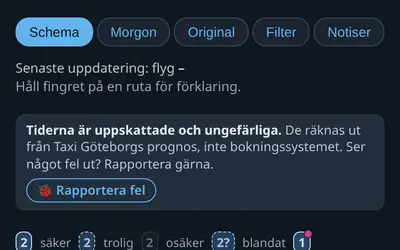
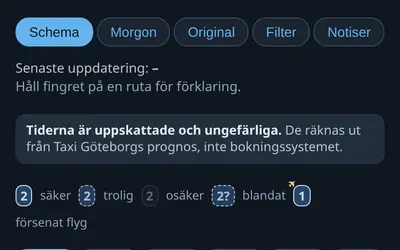
Körpassdata: nattpass räknas bara på startdagen i dagsvyn (cache 20261114kp1)

diff --git a/TaxiData/lazy-views.js b/TaxiData/lazy-views.js
@@ -1,7 +1,7 @@
 /* DRAFT: feature code is fetched only when invoked. State stores IDs/filters/dates, never content or tokens. */
 (function(){'use strict';
 var L=window.LAZY={}, files={}, groups={}, complete={};
-var manifest={"kordata": ["serverstatus.js?v=20261026tm1", "receipt-versions.js?v=20261110repl1", "kvittokopia.js?v=20261111kv1", "passrapport.js?v=20261111pr2", "script.js?v=20261111komm1"], "lonekoll": ["pay-data.js?v=20261107lazy1", "lonekoll.js?v=20261110lk1"], "ankomster": ["train-stations.js?v=20261108stations1", "arrival-data.js?v=20261111datatid1", "bevakning.js?v=20261112ljud1", "tagnotis.js?v=20261111bat1", "flygnotis.js?v=20261111bat1", "ankomster.js?v=20261111datatid1"], "prognos": ["train-stations.js?v=20261108stations1", "arrival-data.js?v=20261111datatid1", "bevakning.js?v=20261112ljud1", "prognos.js?v=20261113sedd1", "prognos-notis.js?v=20261112zon2"], "kalender": ["kalender.js?v=20261111maps1"], "topplistor": ["topplistor.js?v=20261107lazy1"], "forum": ["forum.js?v=20261107lazy1"], "mina-bevakningar": ["train-stations.js?v=20261108stations1", "arrival-data.js?v=20261111datatid1", "bevakning.js?v=20261112ljud1", "tagnotis.js?v=20261111bat1", "flygnotis.js?v=20261111bat1", "mina-bevakningar.js?v=20261112ljud1"], "verkstad": ["sjuk.js?v=20261107inkorg1", "verkstad.js?v=20261111whmsg1"], "installningar": [], "om": ["om-data.js?v=20261111pgbot1", "changelog.js?v=20261113avs1", "om.js?v=20261107omwatch1"], "profil": ["mailbox-api.js?v=20261107lazy1", "profilbild.js?v=20261105kh1", "profil-sprak.js?v=20261107p1", "profil-sida.js?v=20261107inkorg2b"], "inkorg": ["arende-status.js?v=20261113avs1", "mailbox-ui.js?v=20261113chatt1", "inkorg.js?v=20261107arenden1"], "notiser": ["om-data.js?v=20261111pgbot1", "changelog.js?v=20261113avs1", "om.js?v=20261107omwatch1", "notis.js?v=20261111bat1"], "bevakning": ["bevakning.js?v=20261112ljud1"], "vader": ["vader.js?v=20261111karta1"], "nyheter": ["nyheter.js?v=20261111nyheter1"]};
+var manifest={"kordata": ["serverstatus.js?v=20261026tm1", "receipt-versions.js?v=20261110repl1", "kvittokopia.js?v=20261111kv1", "passrapport.js?v=20261111pr2", "script.js?v=20261114kp1"], "lonekoll": ["pay-data.js?v=20261107lazy1", "lonekoll.js?v=20261110lk1"], "ankomster": ["train-stations.js?v=20261108stations1", "arrival-data.js?v=20261111datatid1", "bevakning.js?v=20261112ljud1", "tagnotis.js?v=20261111bat1", "flygnotis.js?v=20261111bat1", "ankomster.js?v=20261111datatid1"], "prognos": ["train-stations.js?v=20261108stations1", "arrival-data.js?v=20261111datatid1", "bevakning.js?v=20261112ljud1", "prognos.js?v=20261113sedd1", "prognos-notis.js?v=20261112zon2"], "kalender": ["kalender.js?v=20261111maps1"], "topplistor": ["topplistor.js?v=20261107lazy1"], "forum": ["forum.js?v=20261107lazy1"], "mina-bevakningar": ["train-stations.js?v=20261108stations1", "arrival-data.js?v=20261111datatid1", "bevakning.js?v=20261112ljud1", "tagnotis.js?v=20261111bat1", "flygnotis.js?v=20261111bat1", "mina-bevakningar.js?v=20261112ljud1"], "verkstad": ["sjuk.js?v=20261107inkorg1", "verkstad.js?v=20261111whmsg1"], "installningar": [], "om": ["om-data.js?v=20261111pgbot1", "changelog.js?v=20261114kp1", "om.js?v=20261107omwatch1"], "profil": ["mailbox-api.js?v=20261107lazy1", "profilbild.js?v=20261105kh1", "profil-sprak.js?v=20261107p1", "profil-sida.js?v=20261107inkorg2b"], "inkorg": ["arende-status.js?v=20261113avs1", "mailbox-ui.js?v=20261113chatt1", "inkorg.js?v=20261107arenden1"], "notiser": ["om-data.js?v=20261111pgbot1", "changelog.js?v=20261114kp1", "om.js?v=20261107omwatch1", "notis.js?v=20261111bat1"], "bevakning": ["bevakning.js?v=20261112ljud1"], "vader": ["vader.js?v=20261111karta1"], "nyheter": ["nyheter.js?v=20261111nyheter1"]};
 var identity='';L.navigation=0;
 L.get=VIEW_STATE.get;L.save=VIEW_STATE.save;
 L.has=function(id){return Object.prototype.hasOwnProperty.call(manifest,id);};

diff --git a/TaxiData/script.js b/TaxiData/script.js
@@ -567,9 +567,18 @@ function render() {
   }
   // Data visas nu (från servern eller reservvägen get_trip_data): ta alltid bort nedtoningen.
   { const d = document.getElementById('dashboard'); d.style.opacity = ''; d.setAttribute('aria-busy', 'false'); }
-  let shifts = getShiftsInRange(rangeStart, rangeEnd, currentTab === 'dag');
+  // Summor (timmar, inkört, km, antal) räknas bara på pass som STARTAR i perioden, som i vecka/månad.
+  // Dagsvyn listar dessutom nattpass som började kvällen innan (2026-11-11), men de räknas på sin
+  // egen startdag. Förut räknades de på båda dagarna, t.ex. 25 h per dygn (2026-11-14kp1, t1590u).
+  let shifts = getShiftsInRange(rangeStart, rangeEnd);
   if (P) shifts = P.shifts.slice();
   shifts.sort((a, b) => (b.start || '').localeCompare(a.start || ''));
+  let listShifts = shifts;
+  if (!P && currentTab === 'dag') {
+    listShifts = getShiftsInRange(rangeStart, rangeEnd, true);
+    listShifts.sort((a, b) => (b.start || '').localeCompare(a.start || ''));
+  }
+  const fromBefore = s => { const t = parseShiftTime(s.start); return !!t && t < rangeStart; };
 
   let allTrips = [];
   let totalMinutes = 0;
@@ -710,14 +719,15 @@ function render() {
 
   if (currentTab === 'dag' && !COMPANY) {
     // Dagsvy: passrader med passrapport-ikon, resor under plustecknet (samma som övriga flikar).
-    if (shifts.length) {
-      html += `<div class="section">${shifts.map(s => shiftEntryHtml(s, getTripsForShift(s), { dateLabel: '' })).join('')}${looseTrips.length ? looseTripsRow(looseTrips) : ''}</div>`;
+    if (listShifts.length) {
+      html += `<div class="section">${listShifts.map(s => shiftEntryHtml(s, getTripsForShift(s), { dateLabel: fromBefore(s) ? formatShiftDate(s.start) + ' ' : '' })).join('')}${looseTrips.length ? looseTripsRow(looseTrips) : ''}</div>`;
+      if (listShifts.some(fromBefore)) html += `<p class="kp-note" style="font-size:.8rem;opacity:.75;margin:6px 10px">Pass med datum började dagen innan och räknas på den dagen.</p>`;
     } else if (allTrips.length) {
       html += `<div class="section">${allTrips.map(t => tripEntryHtml(t, "day")).join('')}</div>`;
     }
-  } else if (shifts.length) {
+  } else if (listShifts.length) {
     // Lista med skift (för hela åkeriet även på dagsfliken: ett skift per förare och bil)
-    html += `<div class="section">${shifts.map(s => {
+    html += `<div class="section">${listShifts.map(s => {
       // Åkeridata: passets resor följer med för korta perioder, annars hämtas de när passet fälls ut.
       const lazyId = P && !s._trips ? s._id : null;
       const shiftTrips = P ? (s._trips || companyApi.trips[s._id] || []) : getTripsForShift(s);
@@ -761,7 +771,7 @@ window.taxiStats = function (tab) {
   const range = tab === 'vecka' ? [getWeekStart(now), getWeekEnd(now)]
     : tab === 'manad' ? [getMonthStart(now), getMonthEnd(now)]
     : tab === 'ar' ? [new Date(now.getFullYear(), 0, 1), new Date(now.getFullYear(), 11, 31, 23, 59, 59)] : [startOfDay(now), endOfDay(now)];
-  const shifts = getShiftsInRange(range[0], range[1], tab === 'dag');
+  const shifts = getShiftsInRange(range[0], range[1]);   // summor: pass räknas på startdagen (2026-11-14kp1)
   let trips = [];
   let totalMinutes = 0;
   shifts.forEach(s => { trips = trips.concat(getTripsForShift(s)); totalMinutes += parseTime(s.tid); });

diff --git a/TaxiData/changelog.js b/TaxiData/changelog.js
@@ -15,6 +15,9 @@
  *   Används i notisflödet ("5 min sedan"). Utan tid visas bara dagen ("i dag", "i går", "12/10").
  */
 window.CHANGELOG = [
+  { datum: '2026-11-14', id: '2026-11-14kp1', rader: [
+    ['Fixat', 'Körpassdata, dagsvyn: nattpass räknades på två dagar, så det kunde stå 25 arbetade timmar på ett dygn (och för mycket inkört). Nu räknas varje pass bara på dagen det startade, som i vecka och månad. Nattpasset från kvällen innan visas fortfarande i listan, med datum.']
+  ]},
   { datum: '2026-11-13', id: '2026-11-13avs1', tid: '02:13', rader: [
     ['Fixat', 'Ärenden: rätt avsändare på svaren. Förut stod det Du på alla svar från någon med ägarroll, även när någon annan hade skrivit dem. Nu står Du bara på det du själv skrivit, och annars personens namn.']
   ]},

diff --git a/TaxiData/index.html b/TaxiData/index.html
@@ -204,7 +204,7 @@
   <script src="hjalp.js?v=20261113mod2"></script>
   <script src="hem-ordning.js?v=20261113mod2"></script>
   <script src="moduler.js?v=20261113mod2"></script>
-  <script src="lazy-views.js?v=20261113avs1"></script>
+  <script src="lazy-views.js?v=20261114kp1"></script>
   <script>
     // Vilka roller som ser varje ikon. Rollen kommer från servern (get_me), inte från något föraren kan ändra.
     // Servern kontrollerar ändå behörigheten på varje sida; det här styr bara vad som visas.

diff --git a/TaxiData/akeridata.html b/TaxiData/akeridata.html
@@ -61,7 +61,7 @@
   <script src="receipt-versions.js?v=20261110repl1"></script>
   <script src="kvittokopia.js?v=20261111kv1"></script>
   <script src="passrapport.js?v=20261111pr2"></script>
-  <script src="script.js?v=20261111pr2"></script>
+  <script src="script.js?v=20261114kp1"></script>
   <script src="demo.js?v=zzzda1"></script>
   <script src="swipe-back.js?v=20261112swipe1"></script>
   <script>
